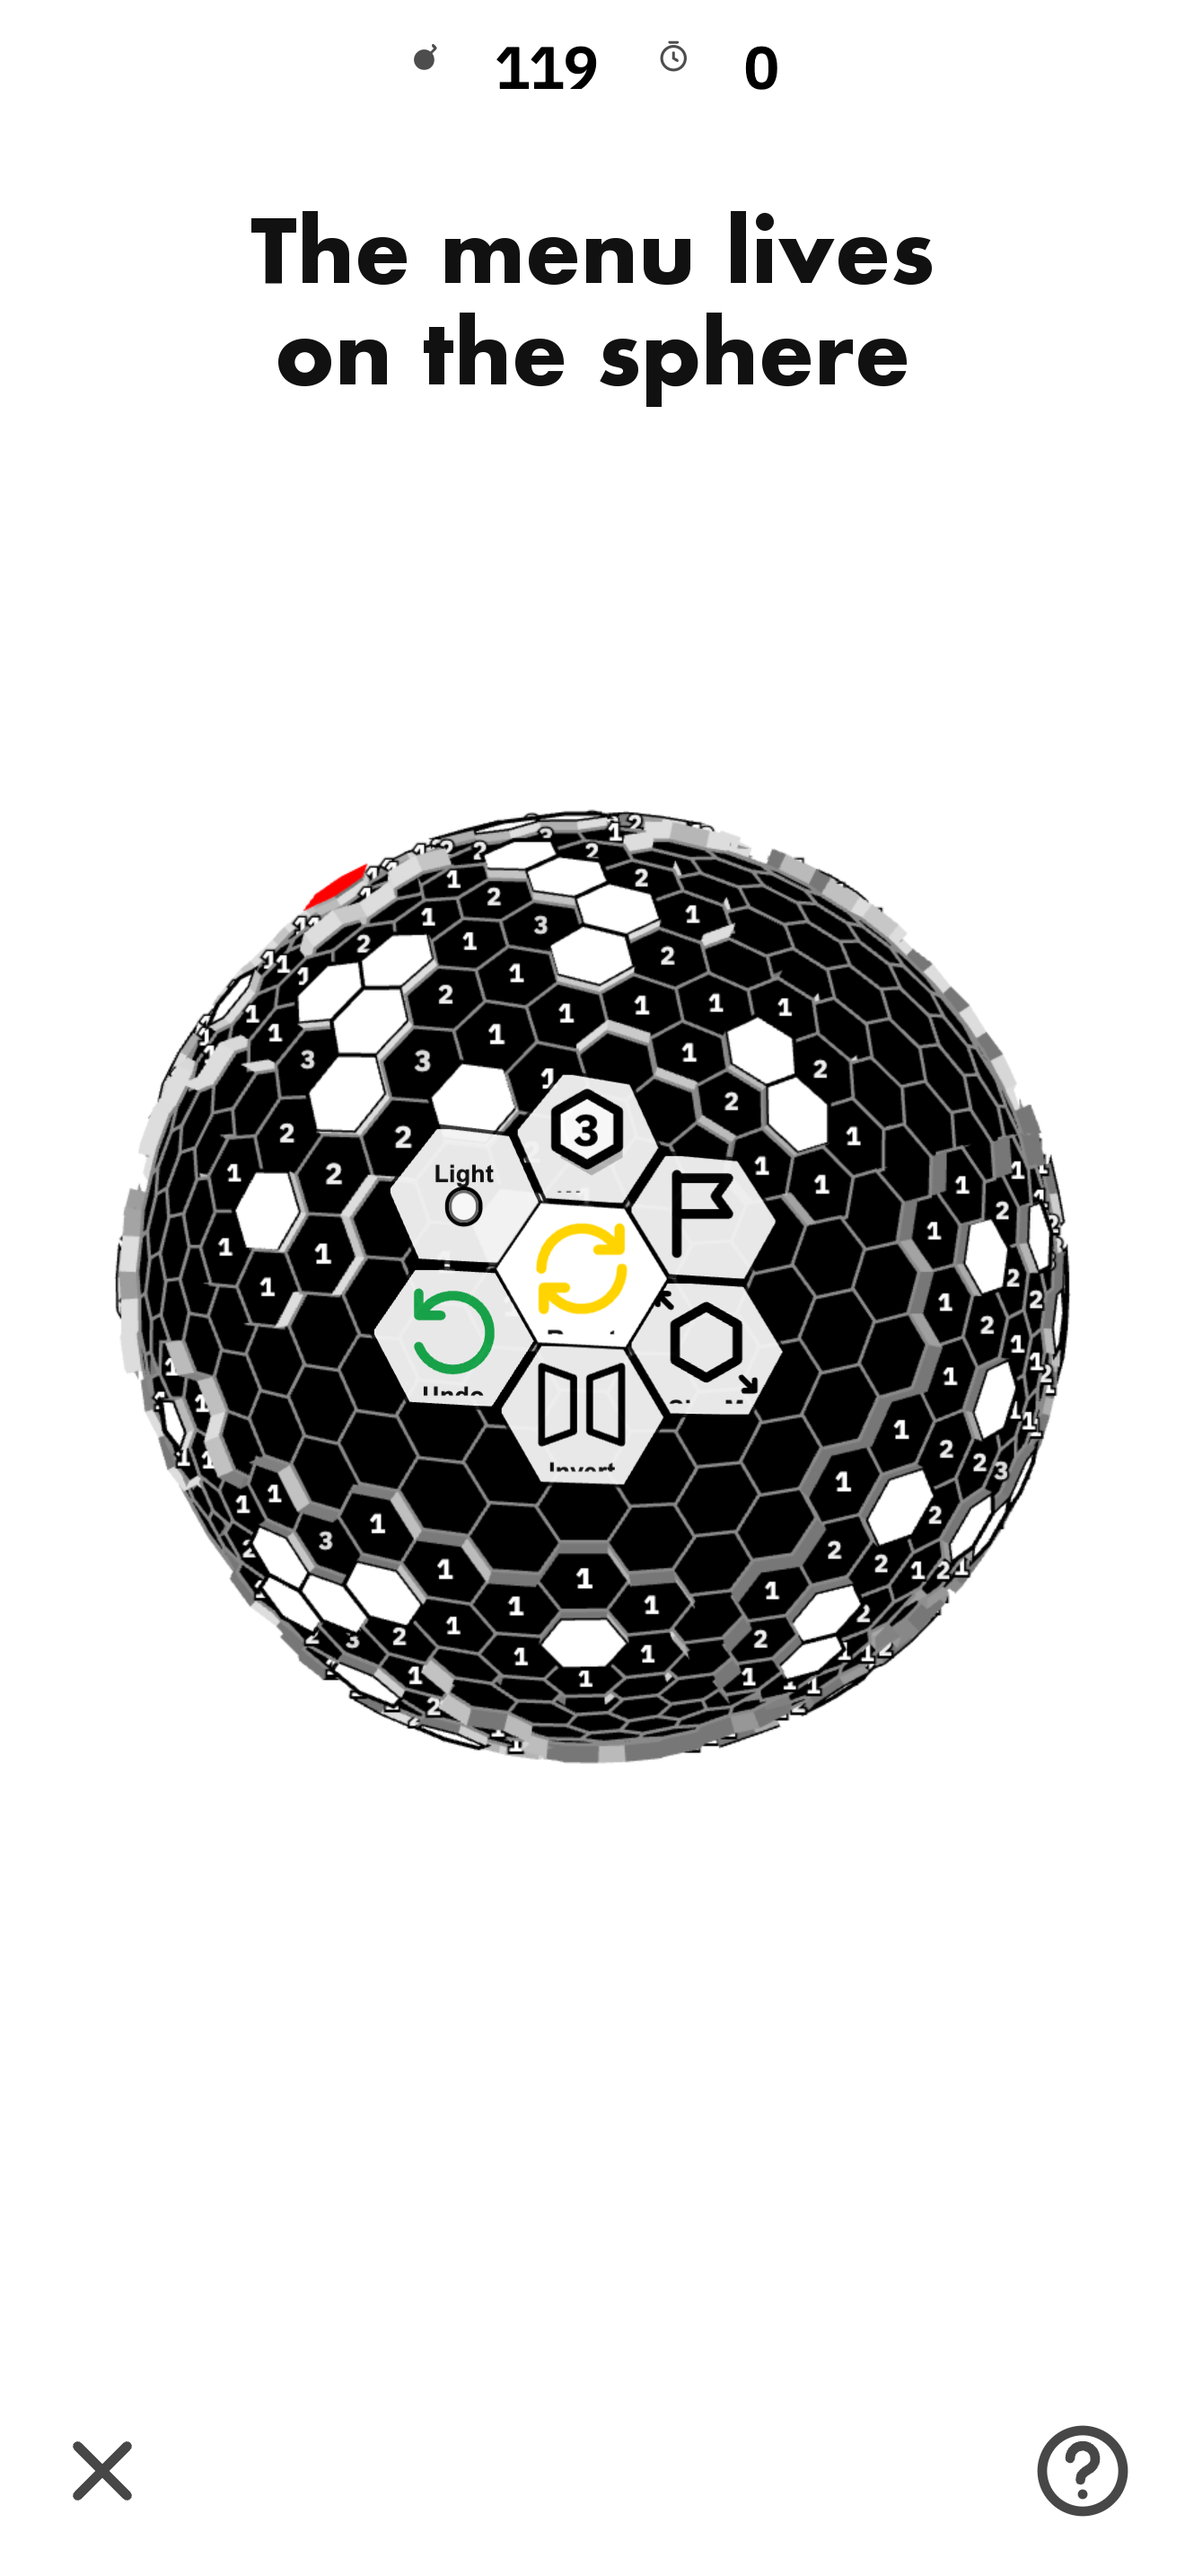
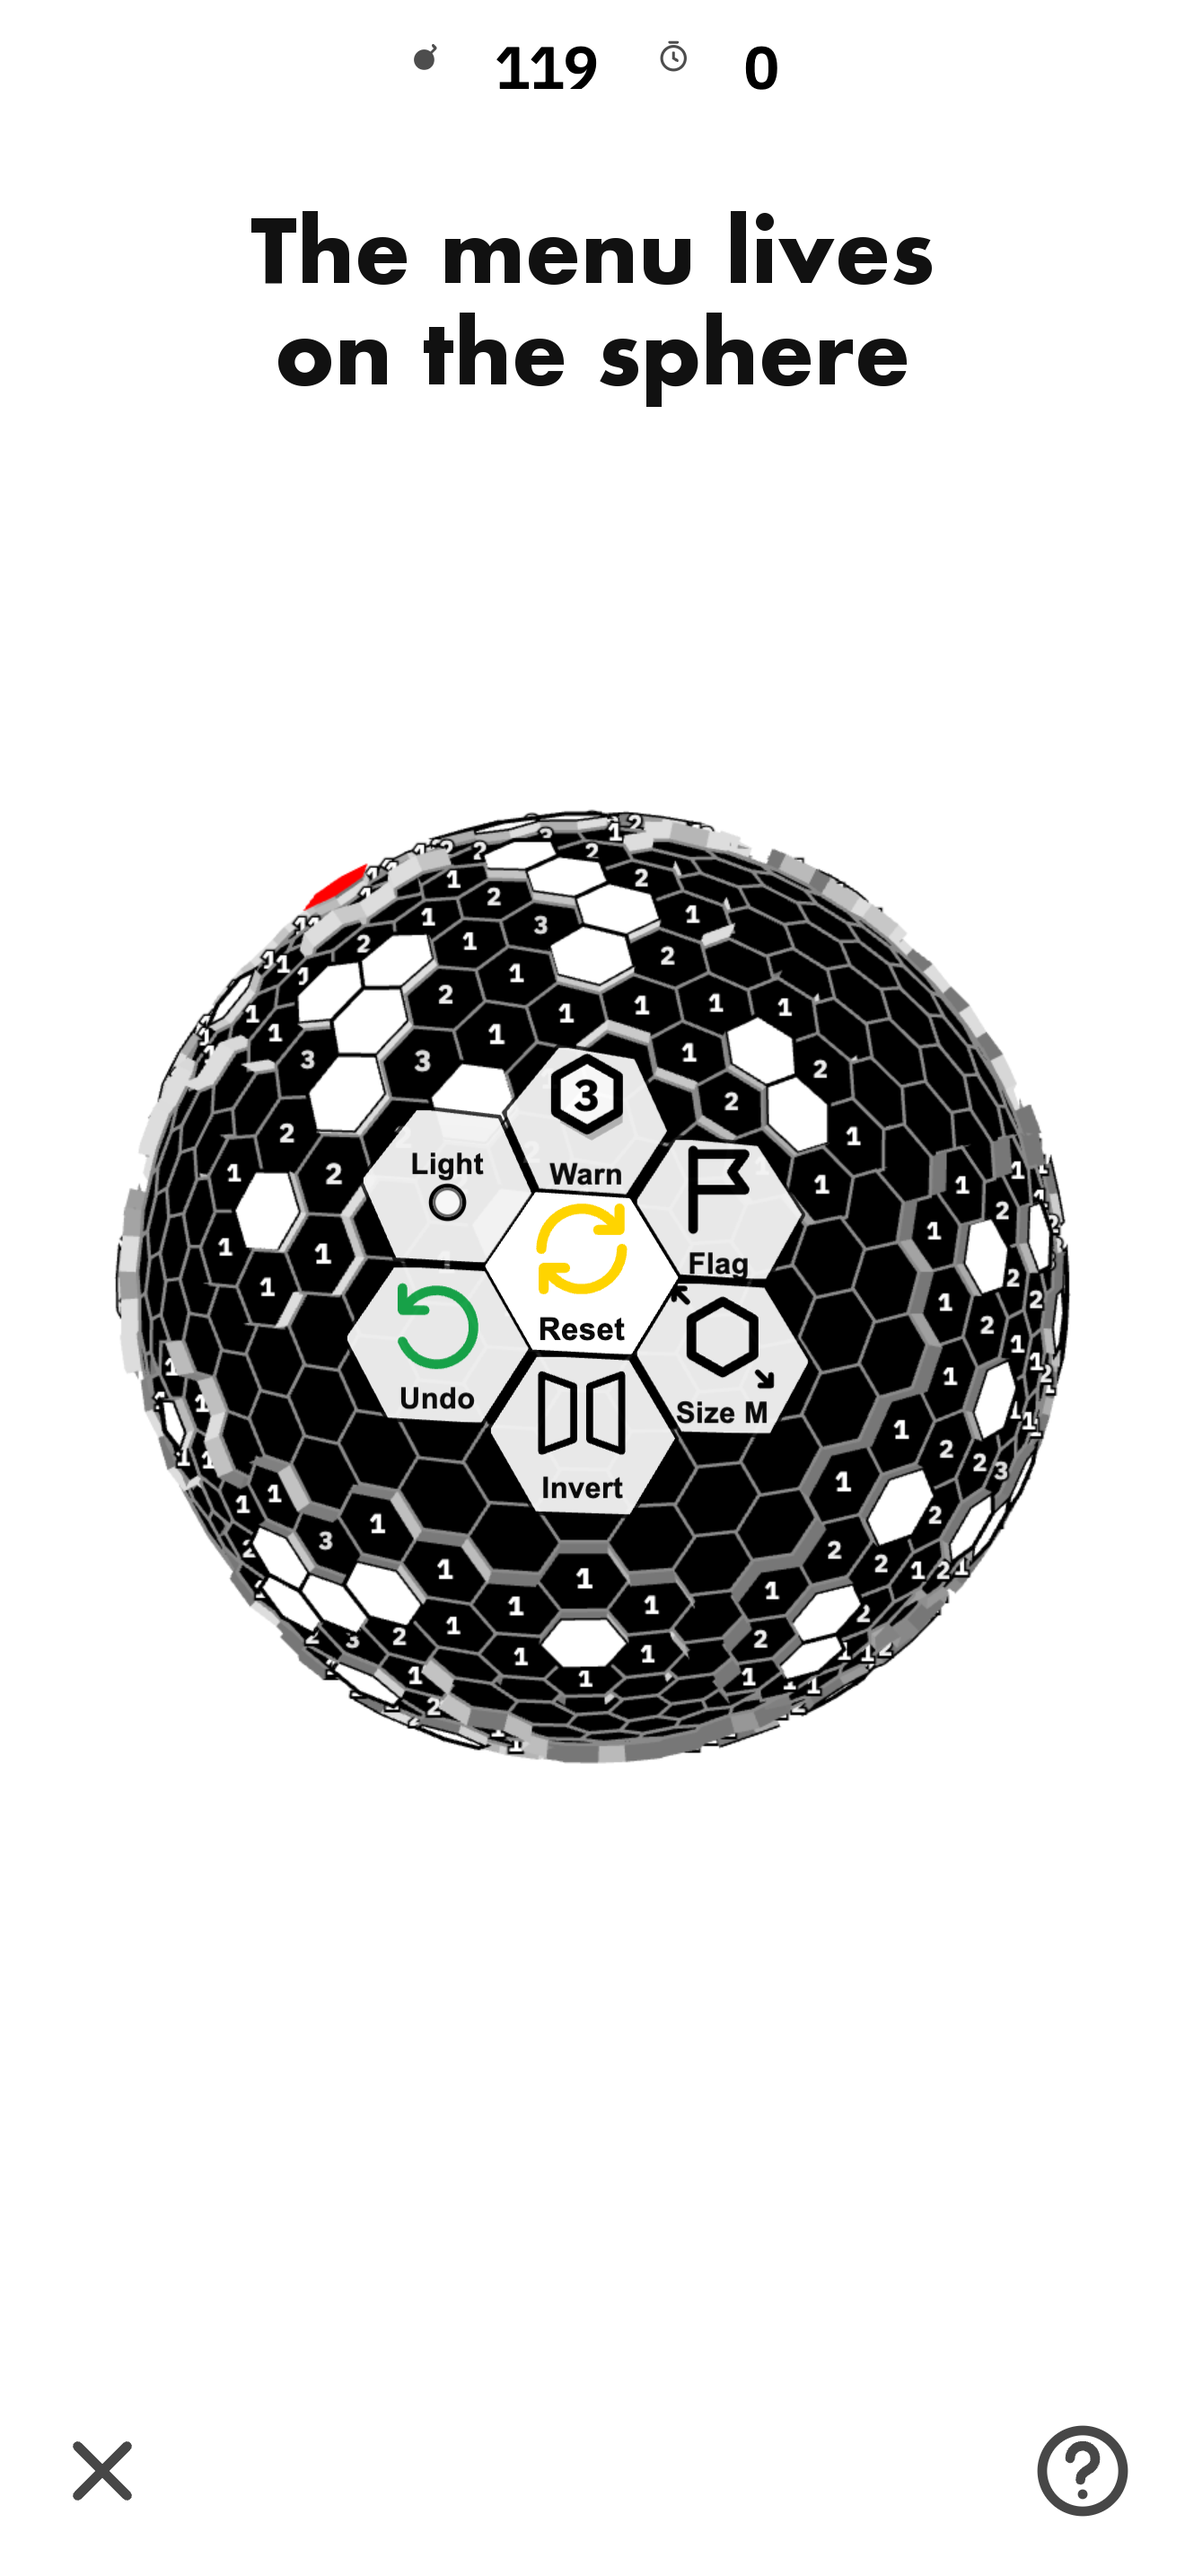
build: face-menu labels, Help theme grid; TestFlight build 48 attached to 1.0
Payload re-vendored from hexsweeper 008e18b. Screenshots regenerated.
CURRENT_PROJECT_VERSION 47 → 48; build 48 uploaded 2026-08-18 and attached
to 1.0.

Changed region(s): [[0.2795, 0.4034, 0.6833, 0.5896]]

diff --git a/www/index.html b/www/index.html
@@ -1773,16 +1773,19 @@ body.hex-bloom-open.hex-bloom-rotatable .canvas-container {
   max-width: none;
   max-height: none;
 }
-.hex-bloom[data-face-menu="true"] .hb-face-action .hb-face-label {
-  font-size: var(--face-label, 10px);
+.hex-bloom[data-face-menu="true"] .hb-hex.is-primary.hb-face-action .hb-label.hb-face-label:not(.sr-visual-hide) {
+  font-size: var(--face-label, 11px);
   font-weight: 700;
   letter-spacing: 0.01em;
-  line-height: 1;
-  max-width: 92%;
-  white-space: nowrap;
-  overflow: hidden;
-  text-overflow: clip;
-  opacity: 0.92;
+  line-height: 1.02;
+  max-width: 78%;
+  white-space: normal;
+  overflow: visible;
+  text-align: center;
+  opacity: 0.96;
+}
+.hex-bloom[data-face-menu="true"] .hb-face-action {
+  row-gap: 3px;
 }
 .hex-bloom[data-face-menu="true"] .hb-face-action.is-theme-swatch .hb-theme-dot {
   width: calc(var(--face-icon, 26px) * 0.62);
@@ -2355,6 +2358,48 @@ body.help-open { overflow: hidden; }
   background: color-mix(in srgb, var(--text-main) 6%, transparent);
   outline: none;
 }
+/* Theme picker: every look the flower cycles through, one tap each. */
+.help-themes { margin: 0 0 0.85rem; }
+.help-themes .help-packs-cap { display: block; margin-bottom: 0.4rem; }
+.help-theme-grid {
+  display: grid;
+  grid-template-columns: repeat(3, 1fr);
+  gap: 0.45rem;
+}
+.help-theme {
+  appearance: none;
+  display: flex;
+  align-items: center;
+  gap: 0.45rem;
+  min-height: 2.75rem;
+  padding: 0.35rem 0.55rem;
+  border: 1px solid color-mix(in srgb, var(--text-main) 16%, transparent);
+  border-radius: 999px;
+  background: transparent;
+  color: var(--text-main);
+  font: inherit;
+  font-size: 0.74rem;
+  font-weight: 600;
+  text-align: left;
+  cursor: pointer;
+}
+.help-theme .help-theme-dot {
+  flex: none;
+  width: 1.15rem;
+  height: 1.15rem;
+  border-radius: 50%;
+  background: var(--swatch, #888);
+  box-shadow: inset 0 0 0 1px color-mix(in srgb, var(--text-main) 30%, transparent);
+}
+.help-theme[aria-pressed="true"] {
+  border-color: var(--text-main);
+  background: color-mix(in srgb, var(--text-main) 8%, transparent);
+}
+.help-theme:hover,
+.help-theme:focus-visible {
+  background: color-mix(in srgb, var(--text-main) 6%, transparent);
+  outline: none;
+}
 /* Touch: no keyboard, no modifier-click. Keep the copy honest per surface. */
 @media (hover: none) and (pointer: coarse) {
   .help-keys,
@@ -2491,6 +2536,10 @@ body.help-open { overflow: hidden; }
       <p class="help-history-cap">
         Riding on the original — <a href="https://www.coolmathgames.com/blog/the-history-of-minesweeper" target="_blank" rel="noopener noreferrer">history of Minesweeper</a>
       </p>
+    </div>
+    <div class="help-themes" id="help-themes" role="group" aria-label="Theme">
+      <span class="help-packs-cap">Theme</span>
+      <div class="help-theme-grid" id="help-theme-grid"></div>
     </div>
     <div class="help-packs" id="help-controls" role="group" aria-label="Controls">
       <span class="help-packs-cap">Settings</span>
@@ -9790,7 +9839,7 @@ void main() {
   // rotation kept live while open. Falls back to the off-sphere flower when
   // no clean seven-hex patch faces the camera.
   const FACE_MENU = FIXED_CENTER;
-  const FACE_MIN_TILE = 62; // CSS px across a tile before the patch is scaled up
+  const FACE_MIN_TILE = 70; // CSS px across a tile before the patch is scaled up (room for a label)
   const FACE_MAX_SCALE = 6; // XL boards have ~11px faces; the cluster still reads as on-sphere
   const FACE_RESEAT_Z = 0.6; // patch turned this far from the camera → re-seat on the front
   const FACE_SHORT_THEME = {
@@ -11850,8 +11899,8 @@ void main() {
       el.style.width = width.toFixed(1) + "px";
       el.style.height = height.toFixed(1) + "px";
       el.style.setProperty("--face-poly", "polygon(" + polygon + ")");
-      el.style.setProperty("--face-icon", Math.max(18, Math.min(34, height * 0.34)).toFixed(1) + "px");
-      el.style.setProperty("--face-label", Math.max(9, Math.min(12, height * 0.15)).toFixed(1) + "px");
+      el.style.setProperty("--face-icon", Math.max(18, Math.min(32, height * 0.30)).toFixed(1) + "px");
+      el.style.setProperty("--face-label", Math.max(11, Math.min(13, height * 0.16)).toFixed(1) + "px");
     }
 
     function layoutFaceMenu() {
@@ -12654,9 +12703,49 @@ void main() {
 </script>
 <script>
 const sphereGame = SphereSweeper.boot({ canvasId: "gameCanvas" });
-// Exposed for the root resume gate (tools/export-collection.py) and dev tooling.
+// Exposed for tooling and the help-sheet theme picker below.
 window.HEXSWEEPER_SPHERE_GAME = sphereGame;
 const sphereMenu = initHexBloom(sphereGame);
+// Help sheet theme picker: the same roster the flower's Theme tile cycles,
+// laid out so any look is one tap away instead of up to eight.
+(function () {
+  const grid = document.getElementById("help-theme-grid");
+  if (!grid || !window.SphereSweeper) return;
+  const ROSTER = ["light", "dark", "stratosphere", "mercury", "ion-storm", "aurora", "galaxy", "gilded-ribbon", "heat-lightning"];
+  const themes = SphereSweeper.THEMES;
+  function swatchFor(t) {
+    if (t.reflectionSurface) return "linear-gradient(145deg, " + (t.fallbackBgGlow || "#666") + ", " + (t.fallbackBg || "#000") + ")";
+    return "linear-gradient(145deg, " + (t.covered || "#fff") + " 45%, " + (t.bg || "#000") + " 55%)";
+  }
+  const buttons = [];
+  ROSTER.forEach((id) => {
+    const index = themes.findIndex((t) => t.id === id);
+    if (index < 0) return;
+    const t = themes[index];
+    const b = document.createElement("button");
+    b.type = "button";
+    b.className = "help-theme";
+    b.dataset.theme = id;
+    b.style.setProperty("--swatch", swatchFor(t));
+    b.setAttribute("aria-pressed", "false");
+    b.innerHTML = '<span class="help-theme-dot" aria-hidden="true"></span><span>' + t.name + "</span>";
+    b.addEventListener("click", () => {
+      sphereGame.setThemeIndex(index);
+      sync();
+    });
+    grid.appendChild(b);
+    buttons.push(b);
+  });
+  function sync() {
+    const current = themes[sphereGame.getThemeIndex()];
+    buttons.forEach((b) => b.setAttribute("aria-pressed", String(!!current && b.dataset.theme === current.id)));
+  }
+  sync();
+  const helpBtn = document.getElementById("help-btn");
+  if (helpBtn) helpBtn.addEventListener("click", sync);
+  document.addEventListener("keydown", (e) => { if (e.key === "?" || e.key === "t" || e.key === "T") setTimeout(sync, 0); });
+  window.HEXSWEEPER_SYNC_HELP_THEMES = sync;
+})();
 document.getElementById("open-menu-a11y")?.addEventListener("click", () => sphereMenu?.open());
 (function () {
   const lb = document.getElementById("history-lightbox");

diff --git a/docs/DEVICE_VERIFY.md b/docs/DEVICE_VERIFY.md
@@ -25,7 +25,7 @@ and any network dependency is a defect.
 | 1c′ | Textured materials | Stratosphere shows the drifting sky on the mirror (light chrome, dark glass wells); Ion Storm shows the storm cloud trailing the rotation; Galaxy, Gilded Ribbon, Heat Lightning show their textures; Aurora its curtains — all offline, in airplane mode | |
 | 1d | Mercury | Mirrored WebGL body under an etched crust, liquid-metal wells on dig, gilded flags; share card includes the mirror | |
 | 2 | Sphere size | On a phone in portrait the sphere spans roughly 85% of the width; margins above and below still open the flower on tap | |
-| 3 | Help sheet | Help opens wide enough to read (≥340 pt on a phone), no keyboard hints, Settings pills and Done at least 44 pt tall, closes with × / Done / outside tap and never blocks the board afterwards | |
+| 3 | Help sheet | Help opens wide enough to read (≥340 pt on a phone), no keyboard hints, a Theme grid of nine swatches (tap one → sphere changes behind, swatch reads pressed), Settings pills and Done at least 44 pt tall, closes with × / Done / outside tap and never blocks the board afterwards | |
 | 6 | Sphere render | Sphere is centred and fully visible; no clipping at any edge | |
 | 7 | Sphere dig | Single tap reveals the intended tile — not a neighbour | |
 | 8 | Sphere flag | Long-press flags; flag stands proud of the shell | |

diff --git a/docs/LAUNCH_CHECKPOINT.md b/docs/LAUNCH_CHECKPOINT.md
@@ -10,7 +10,7 @@ Gate before widening TestFlight or submitting for review.
 
 ## Build identity
 
-- [x] `CURRENT_PROJECT_VERSION` is 47 for the release candidate (splash + sphere-only payload + on-sphere face menu)
+- [x] `CURRENT_PROJECT_VERSION` is 48 for the release candidate (splash + sphere-only payload + on-sphere face menu with labels + Help theme grid)
 - [ ] `MARKETING_VERSION` set for the intended release
 - [ ] Display name reads **Hexsweeper** on the home screen
 - [x] Archive signs cleanly under team `596T7J7FB6`
@@ -42,7 +42,8 @@ rather than contaminated — every field was null, so this was fill-in.
 - [x] Build 44 uploaded to TestFlight 2026-08-18: nine-theme flower cycle (Aurora, Galaxy, Gilded Ribbon, Heat Lightning added)
 - [x] Build 45 uploaded 2026-08-18: sphere launch image
 - [x] Build 46 uploaded 2026-08-18: flower off the sphere, no scrim blur
-- [x] Build 47 uploaded 2026-08-18: menu on the sphere's faces (Face Takeover); attached to 1.0 as the release candidate
+- [x] Build 47 uploaded 2026-08-18: menu on the sphere's faces (Face Takeover)
+- [x] Build 48 uploaded 2026-08-18: face-tile labels, Help theme grid; attached to 1.0 as the release candidate
 - [x] Nothing submitted for App Review
 - [ ] **Privacy nutrition labels — ASC web UI only, no API.** Select
       "Data Not Collected" for every category: the app makes no network

diff --git a/docs/RELEASE.md b/docs/RELEASE.md
@@ -12,7 +12,7 @@
 | Team | `596T7J7FB6` (Bridge City Lab LLC) |
 
 Build numbers start at 7 — builds 1–6 belong to the retired Hivescape app on
-this same record. Build 47 is the latest uploaded TestFlight build, attached to 1.0, and the
+this same record. Build 48 is the latest uploaded TestFlight build, attached to 1.0, and the
 checked-in project matches it.
 
 ## Archive → TestFlight
@@ -132,6 +132,9 @@ Done (updated 2026-08-11, through the App Store Connect API):
       on the sphere's own faces (Face Takeover, productionised — labelled,
       finger-sized, board rotatable while open); vendored from hexsweeper
       `8a8e925`. Screenshot 03 recaptioned "The menu lives on the sphere"
+- [x] Build 48 uploaded and attached to 1.0 on 2026-08-18: legible labels on
+      the face-menu tiles and a nine-swatch Theme grid in the Help sheet
+      (vendored from hexsweeper `008e18b`)
 
 Still owed:
 
